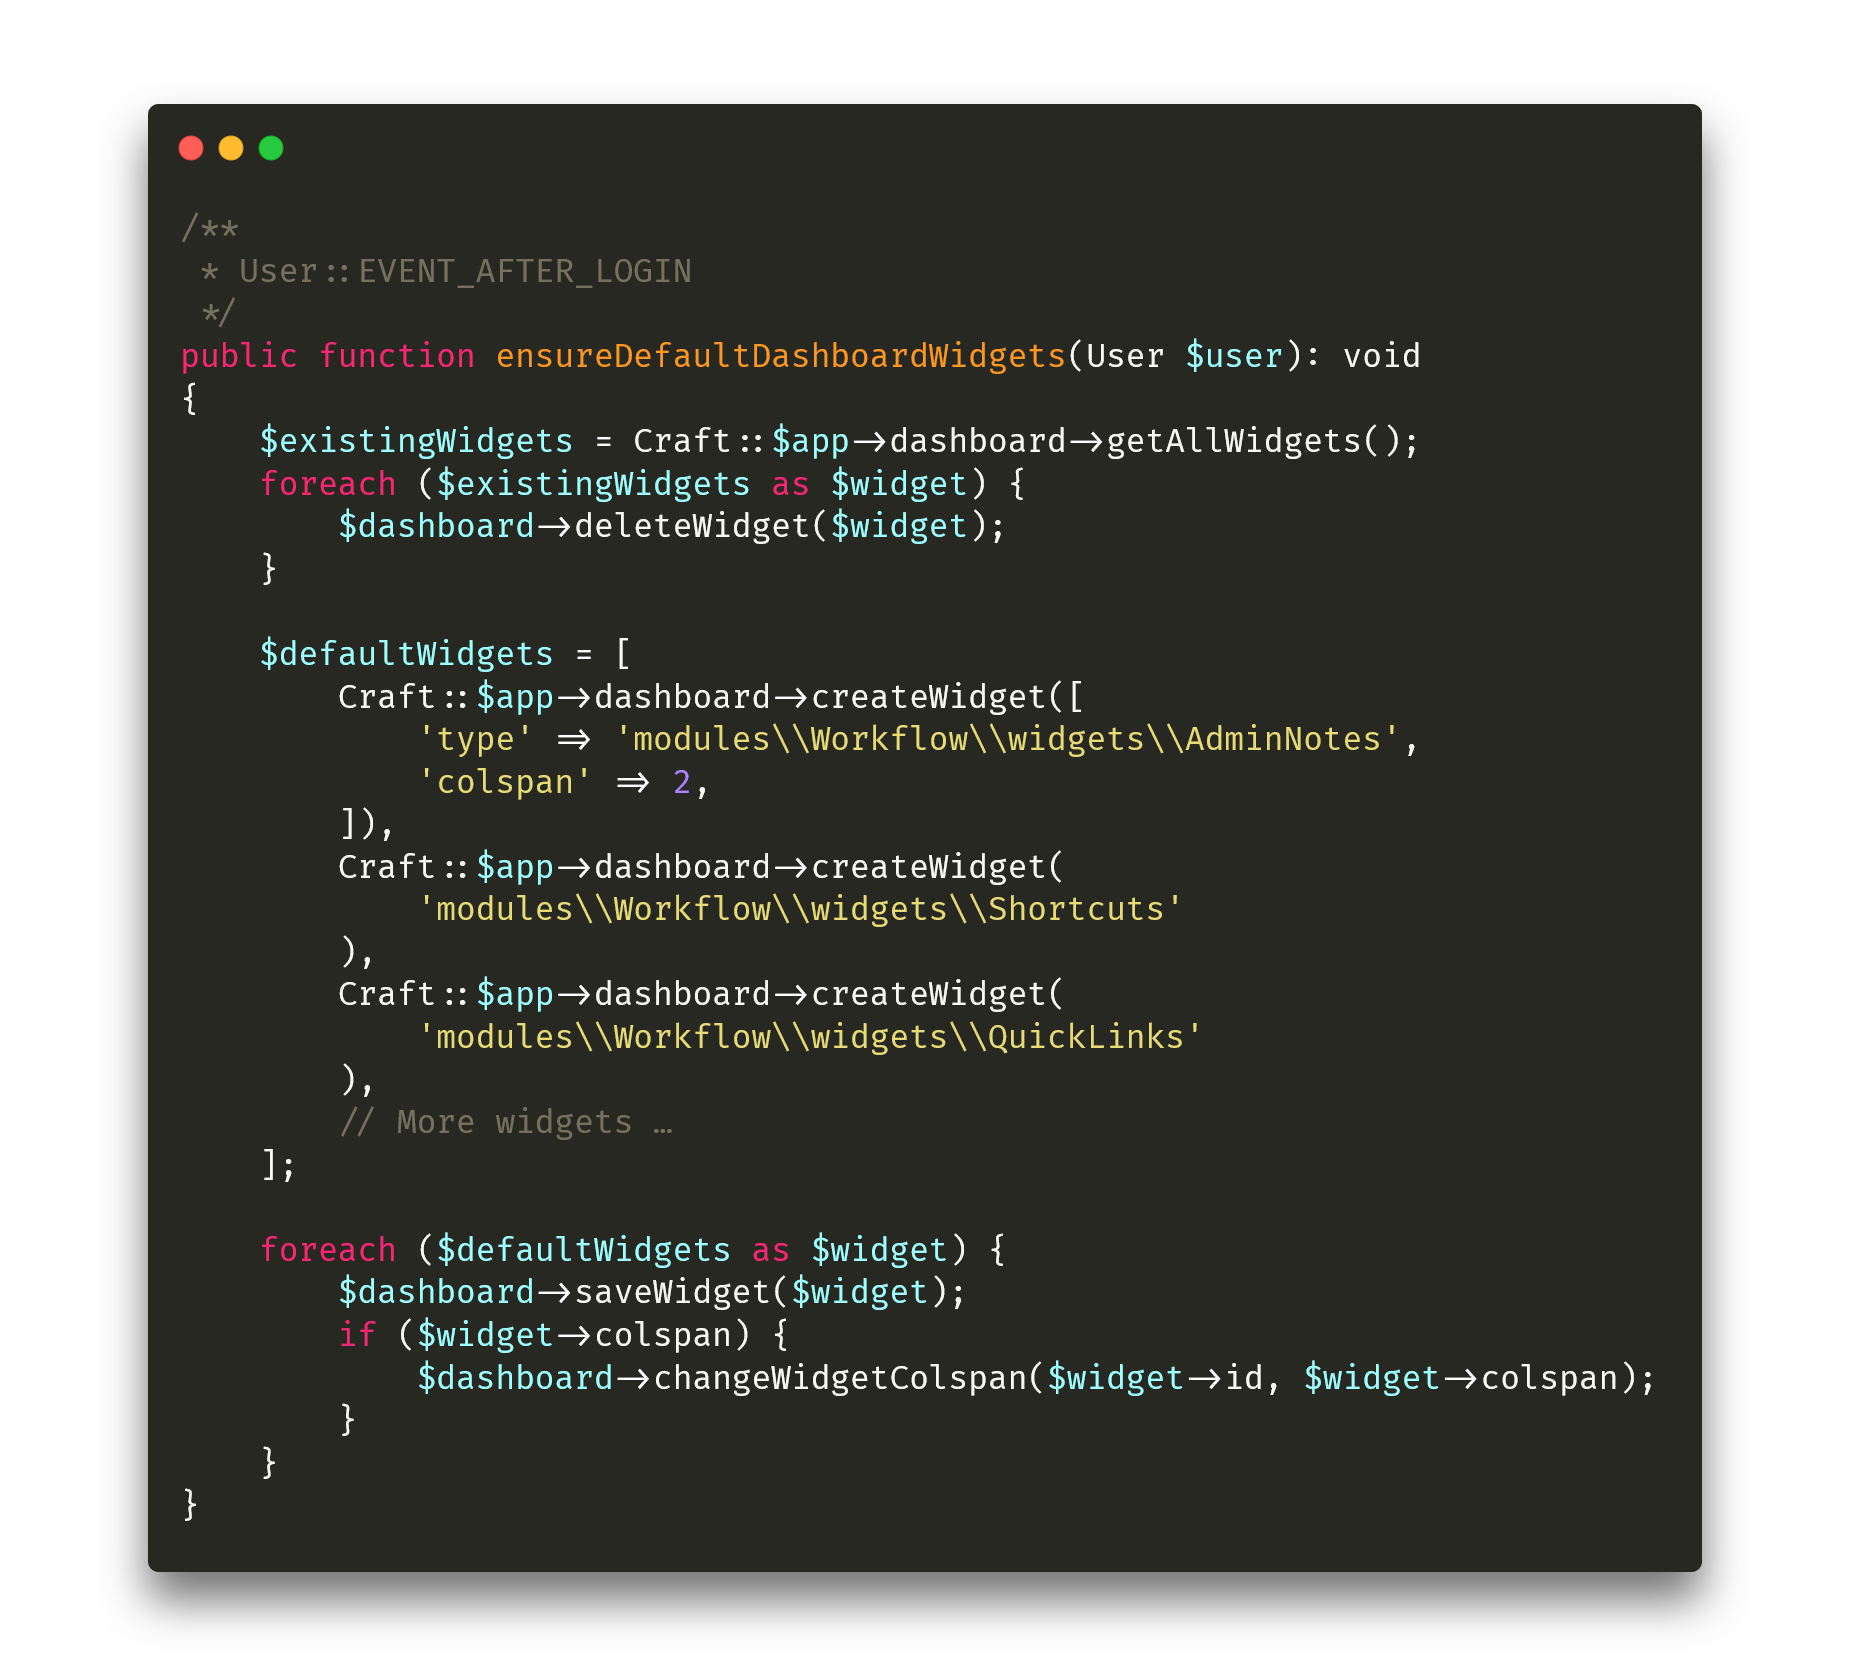
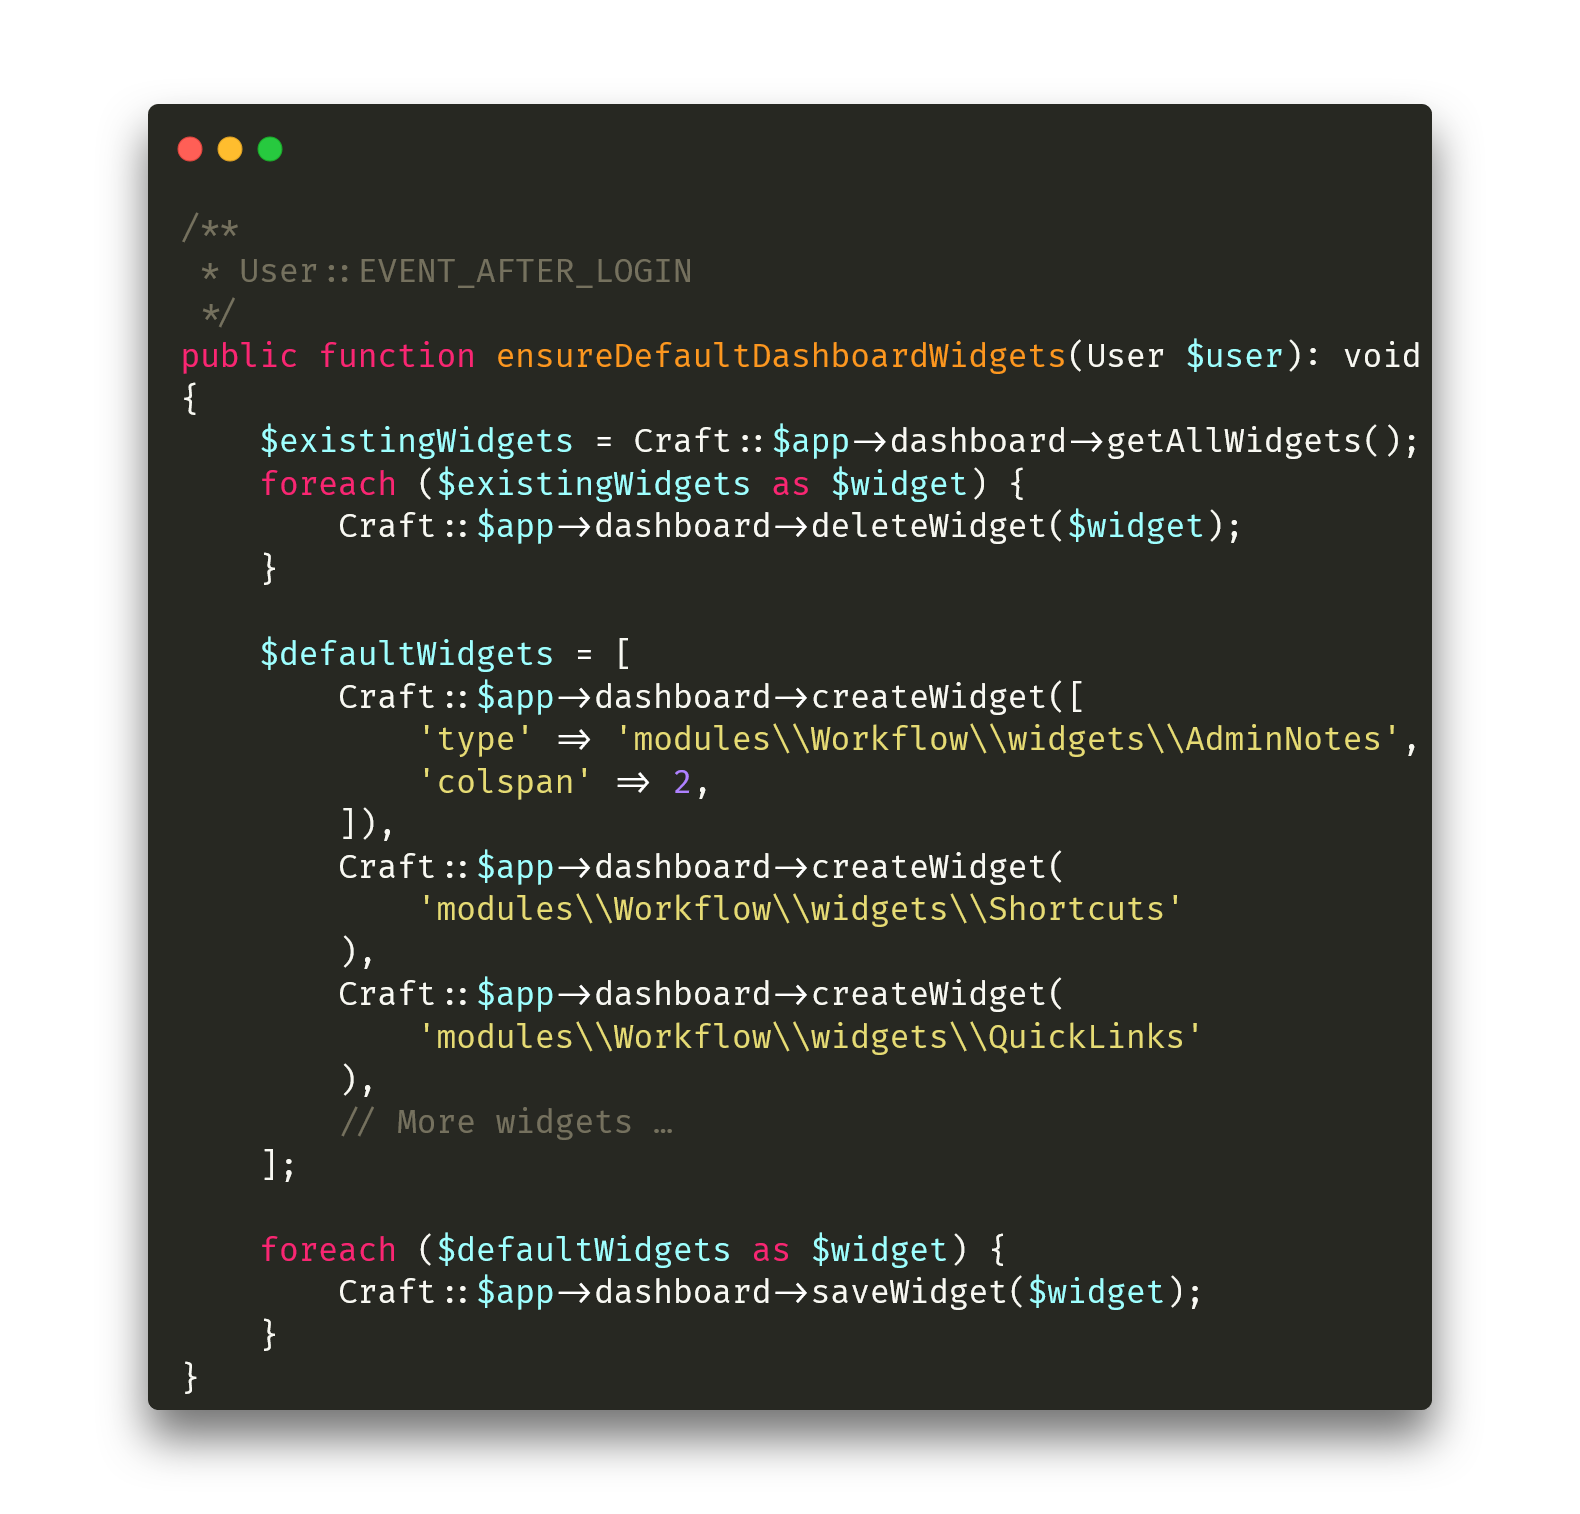
Update code example for page 8

Changed region(s): [[0.062, 0.0621, 0.9304, 0.9624], [0.7133, 0.683, 0.7443, 0.714]]

diff --git a/code-examples/08-04.php b/code-examples/08-04.php
@@ -7,7 +7,7 @@ public function ensureDefaultDashboardWidgets(User $user): void
 {
     $existingWidgets = Craft::$app->dashboard->getAllWidgets();
     foreach ($existingWidgets as $widget) {
-        $dashboard->deleteWidget($widget);
+        Craft::$app->dashboard->deleteWidget($widget);
     }
 
     $defaultWidgets = [
@@ -25,9 +25,6 @@ public function ensureDefaultDashboardWidgets(User $user): void
     ];
 
     foreach ($defaultWidgets as $widget) {
-        $dashboard->saveWidget($widget);
-        if ($widget->colspan) {
-            $dashboard->changeWidgetColspan($widget->id, $widget->colspan);
-        }
+        Craft::$app->dashboard->saveWidget($widget);
     }
 }
